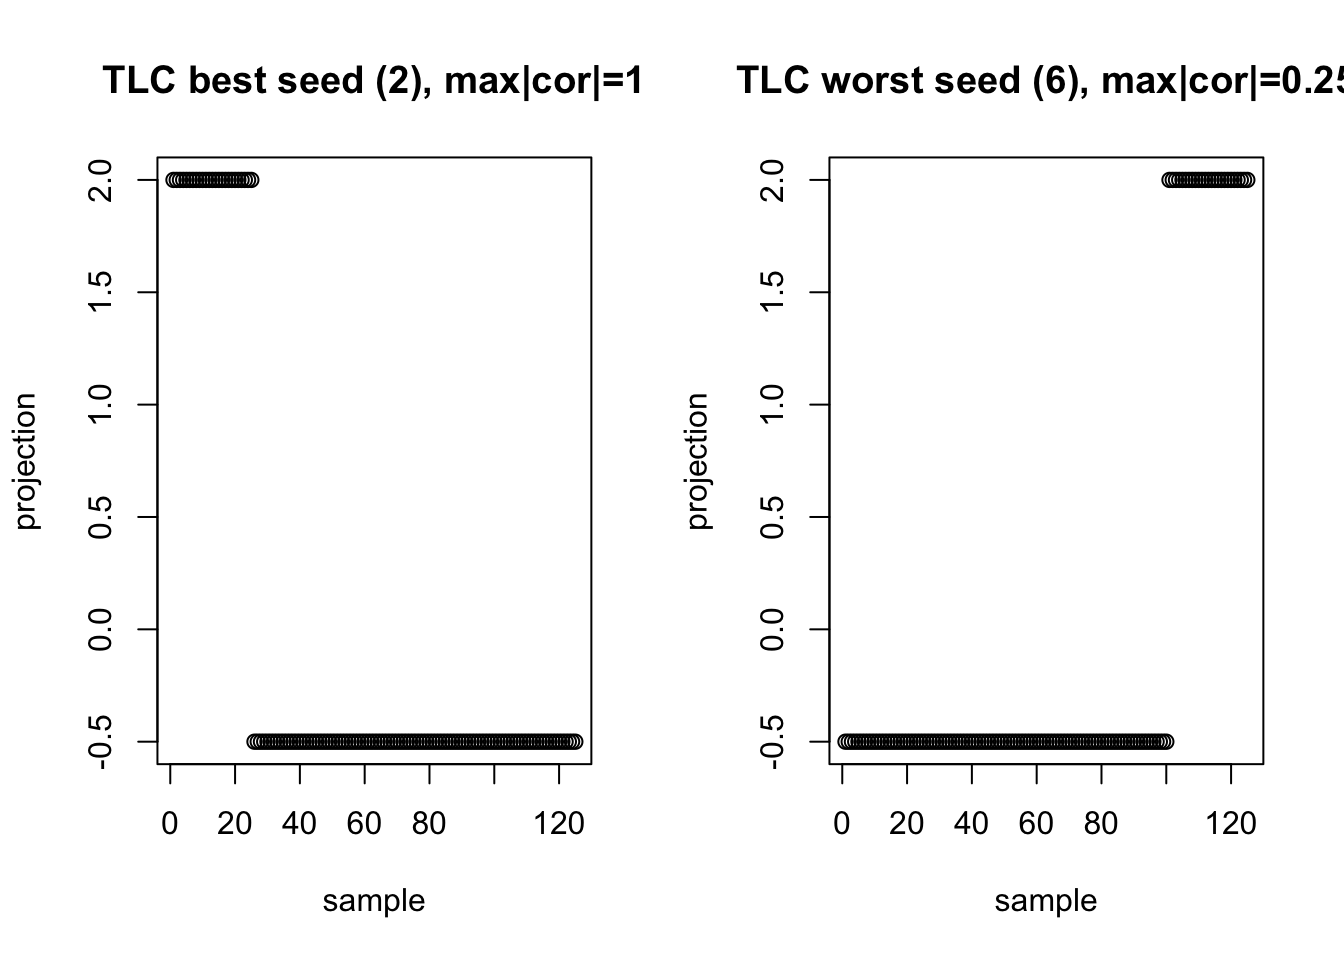
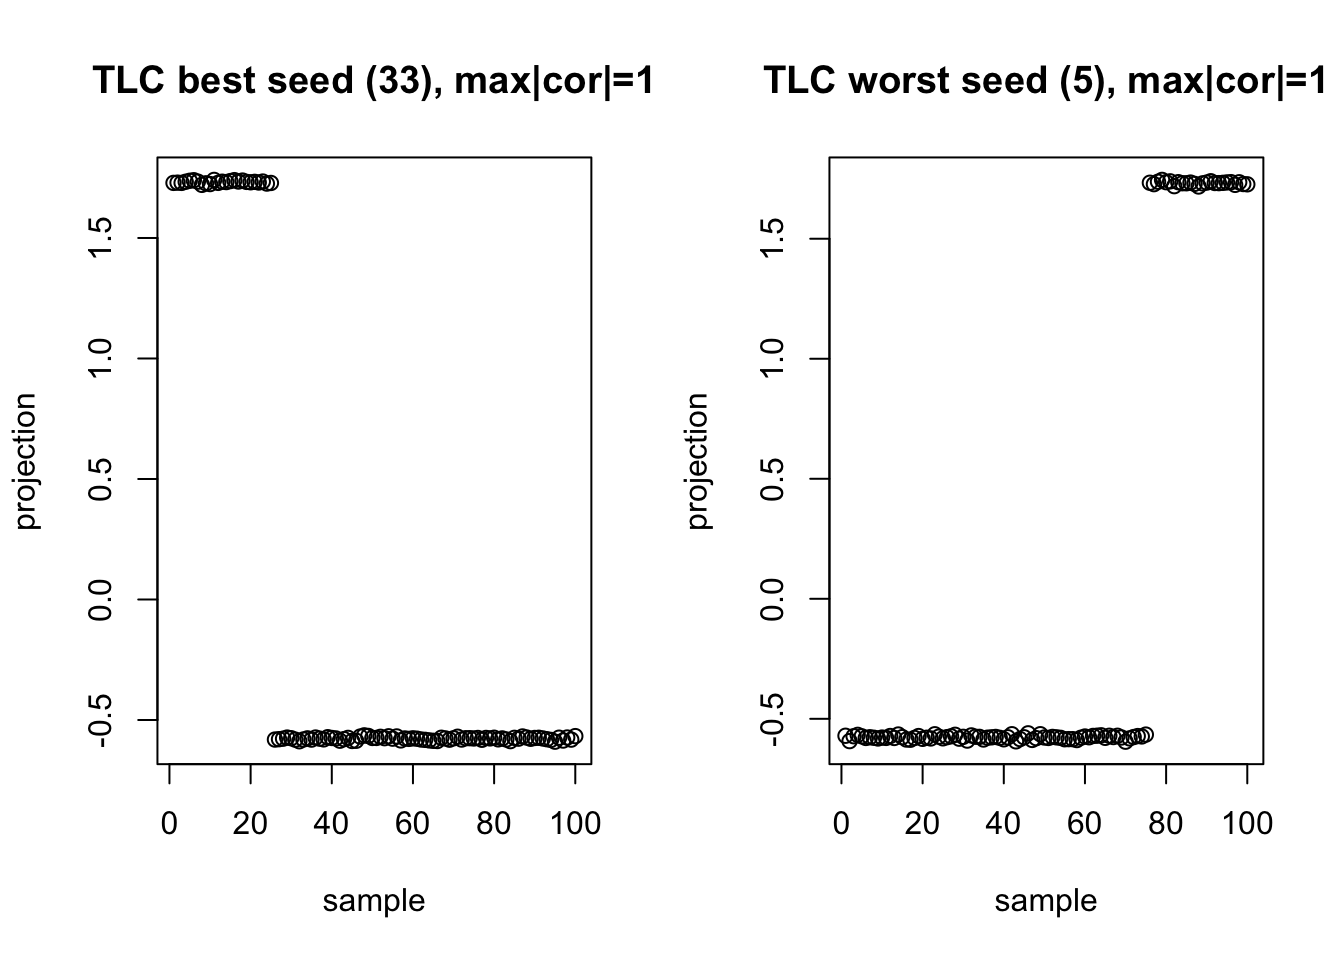
Build site.

diff --git a/docs/fastica_skew.html b/docs/fastica_skew.html
@@ -465,16 +465,16 @@ This reproducible <a href="https://rmarkdown.rstudio.com">R Markdown</a> analysi
 <div class="panel panel-default">
 <div class="panel-heading">
 <p class="panel-title">
-<a data-toggle="collapse" data-parent="#workflowr-checks" href="#strongRepositoryversionstrongahrefhttpsgithubcomstephens999misctree159d4665e5764959a1c9929fcce3673a317b8a0etargetblank159d466a"> <span class="glyphicon glyphicon-ok text-success" aria-hidden="true"></span> <strong>Repository version:</strong> <a href="https://github.com/stephens999/misc/tree/159d4665e5764959a1c9929fcce3673a317b8a0e" target="_blank">159d466</a> </a>
+<a data-toggle="collapse" data-parent="#workflowr-checks" href="#strongRepositoryversionstrongahrefhttpsgithubcomstephens999misctreecf3bf2ff2014abab89cf9b1d2e5be9bed424c6f5targetblankcf3bf2fa"> <span class="glyphicon glyphicon-ok text-success" aria-hidden="true"></span> <strong>Repository version:</strong> <a href="https://github.com/stephens999/misc/tree/cf3bf2ff2014abab89cf9b1d2e5be9bed424c6f5" target="_blank">cf3bf2f</a> </a>
 </p>
 </div>
[2 lines of base64/hex data omitted]
 <div class="panel-body">
 <p>
 Great! You are using Git for version control. Tracking code development and connecting the code version to the results is critical for reproducibility.
 </p>
 <p>
-The results in this page were generated with repository version <a href="https://github.com/stephens999/misc/tree/159d4665e5764959a1c9929fcce3673a317b8a0e" target="_blank">159d466</a>. See the <em>Past versions</em> tab to see a history of the changes made to the R Markdown and HTML files.
+The results in this page were generated with repository version <a href="https://github.com/stephens999/misc/tree/cf3bf2ff2014abab89cf9b1d2e5be9bed424c6f5" target="_blank">cf3bf2f</a>. See the <em>Past versions</em> tab to see a history of the changes made to the R Markdown and HTML files.
 </p>
 <p>
 Note that you need to be careful to ensure that all relevant files for the analysis have been committed to Git prior to generating the results (you can use <code>wflow_publish</code> or <code>wflow_git_commit</code>). workflowr only checks the R Markdown file, but you know if there are other scripts or data files that it depends on. Below is the status of the Git repository when the results were generated:
@@ -489,6 +489,7 @@ Ignored files:
     Ignored:    analysis/.RData
     Ignored:    analysis/.Rhistory
     Ignored:    analysis/ALStruct_cache/
+    Ignored:    analysis/figure/
     Ignored:    data/.Rhistory
     Ignored:    data/methylation-data-for-matthew.rds
     Ignored:    data/pbmc/
@@ -722,6 +723,40 @@ Message
 Rmd
 </td>
 <td>
+<a href="https://github.com/stephens999/misc/blob/cf3bf2ff2014abab89cf9b1d2e5be9bed424c6f5/analysis/fastica_skew.Rmd" target="_blank">cf3bf2f</a>
+</td>
+<td>
+Matthew Stephens
+</td>
+<td>
[phone redacted]
+</td>
+<td>
+Add noise to tests, 9-component plots
+</td>
+</tr>
+<tr>
+<td>
+html
+</td>
+<td>
+<a href="https://rawcdn.githack.com/stephens999/misc/7da05b81b33e093f4a287866c652908d726bd6e6/docs/fastica_skew.html" target="_blank">7da05b8</a>
+</td>
+<td>
+Matthew Stephens
+</td>
+<td>
[phone redacted]
+</td>
+<td>
+Build site.
+</td>
+</tr>
+<tr>
+<td>
+Rmd
+</td>
+<td>
 <a href="https://github.com/stephens999/misc/blob/159d4665e5764959a1c9929fcce3673a317b8a0e/analysis/fastica_skew.Rmd" target="_blank">159d466</a>
 </td>
 <td>
@@ -827,6 +862,43 @@ abline(h = gaussian_baseline, lty = 2, col = &quot;gray&quot;)
 legend(&quot;bottomleft&quot;, c(&quot;log-cosh&quot;, &quot;tilted log-cosh (λ=1)&quot;, &quot;Gaussian baseline&quot;),
        col = c(&quot;blue&quot;,&quot;red&quot;,&quot;gray&quot;), lty = c(1,1,2))</code></pre>
 <p><img src="figure/fastica_skew.Rmd/unnamed-chunk-2-1.png" alt="" width="672" style="display: block; margin: auto;" /></p>
+<p>
+<button type="button" class="btn btn-default btn-xs btn-workflowr btn-workflowr-fig" data-toggle="collapse" data-target="#fig-unnamed-chunk-2-1">
+Past versions of unnamed-chunk-2-1.png
+</button>
+</p>
+<div id="fig-unnamed-chunk-2-1" class="collapse">
+<div class="table-responsive">
+<table class="table table-condensed table-hover">
+<thead>
+<tr>
+<th>
+Version
+</th>
+<th>
+Author
+</th>
+<th>
+Date
+</th>
+</tr>
+</thead>
+<tbody>
+<tr>
+<td>
+<a href="https://github.com/stephens999/misc/blob/7da05b81b33e093f4a287866c652908d726bd6e6/docs/figure/fastica_skew.Rmd/unnamed-chunk-2-1.png" target="_blank">7da05b8</a>
+</td>
+<td>
+Matthew Stephens
+</td>
+<td>
[phone redacted]
+</td>
+</tr>
+</tbody>
+</table>
+</div>
+</div>
 <p>Standard log-cosh falls below the Gaussian baseline for skewed sources. The tilted version increases monotonically toward the sparse extreme.</p>
 </div>
 <div id="test-1-symmetric-binary-source-k1-p0.5" class="section level2">
@@ -838,7 +910,8 @@ p = 1000
 k = 1
 A = matrix(rnorm(p * k), nrow = p)
 S_rad = matrix(sample(c(-1, 1), n, replace = TRUE), nrow = 1)
-X_rad = A %*% S_rad
+sigma = 0.1
+X_rad = A %*% S_rad + matrix(rnorm(p * n, 0, sigma), nrow = p)
 Z_rad = sqrt(n) * t(svd(X_rad)$v[, 1:k, drop = FALSE])
 
 res_lc_rad  = run_seeds(Z_rad, S_rad, fastica_r1update,     compute_objective,     n_seeds = 50)
@@ -851,20 +924,21 @@ cat(&quot;log-cosh  : mean max|cor| =&quot;, round(mean(res_lc_rad$maxcor),  3),
     &quot; fraction &gt; 0.9:&quot;, mean(res_tlc_rad$maxcor &gt; 0.9), &quot;\n&quot;)</code></pre>
 <pre><code>tilted lc : mean max|cor| = 1  fraction &gt; 0.9: 1 </code></pre>
 </div>
-<div id="test-2-non-overlapping-groups-k4-p0.2-per-source" class="section level2">
-<h2>Test 2: Non-overlapping groups (k=4, p=0.2 per source)</h2>
-<p>Here we have 4 non-overlapping groups of 25 samples each in n=125, so each source is active for 20% of samples (p=0.2). We use n=125 rather than n=100 so that the 4 groups do not perfectly partition all samples — if every sample belongs to exactly one group, the centered data has rank k-1 rather than k, making the k-th whitened component the constant direction (which TLC is attracted to). With background samples this rank deficiency does not arise.</p>
+<div id="test-2-non-overlapping-groups-k4-p0.25-per-source" class="section level2">
+<h2>Test 2: Non-overlapping groups (k=4, p=0.25 per source)</h2>
+<p>Here we have 4 non-overlapping groups of 25 samples each in n=100, so each source is active for 25% of samples (p=0.25). Without noise the 4 groups would perfectly partition all samples, making the centered data rank k-1 and the k-th whitened component the constant direction. The added noise breaks this exact rank deficiency.</p>
 <pre class="r"><code>set.seed(1)
-n = 125
+n = 100
 p = 1000
 k = 4
 A = matrix(rnorm(p * k), nrow = p)
 S = matrix(0, nrow = k, ncol = n)
-S[1, 1:25]    = 1
-S[2, 26:50]   = 1
-S[3, 51:75]   = 1
-S[4, 76:100]  = 1
-X  = A %*% S
+S[1, 1:25]   = 1
+S[2, 26:50]  = 1
+S[3, 51:75]  = 1
+S[4, 76:100] = 1
+sigma = 0.1
+X  = A %*% S + matrix(rnorm(p * n, 0, sigma), nrow = p)
 Z  = prewhiten(X, k)
 
 res_lc  = run_seeds(Z, S, fastica_r1update,     compute_objective)
@@ -874,6 +948,43 @@ par(mfrow = c(1, 2))
 hist(res_lc$maxcor,  breaks = seq(0, 1, by = 0.05), main = &quot;log-cosh: max |cor| with true S&quot;,  xlab = &quot;&quot;)
 hist(res_tlc$maxcor, breaks = seq(0, 1, by = 0.05), main = &quot;tilted log-cosh: max |cor| with true S&quot;, xlab = &quot;&quot;)</code></pre>
 <p><img src="figure/fastica_skew.Rmd/unnamed-chunk-4-1.png" alt="" width="672" style="display: block; margin: auto;" /></p>
+<p>
+<button type="button" class="btn btn-default btn-xs btn-workflowr btn-workflowr-fig" data-toggle="collapse" data-target="#fig-unnamed-chunk-4-1">
+Past versions of unnamed-chunk-4-1.png
+</button>
+</p>
+<div id="fig-unnamed-chunk-4-1" class="collapse">
+<div class="table-responsive">
+<table class="table table-condensed table-hover">
+<thead>
+<tr>
+<th>
+Version
+</th>
+<th>
+Author
+</th>
+<th>
+Date
+</th>
+</tr>
+</thead>
+<tbody>
+<tr>
+<td>
+<a href="https://github.com/stephens999/misc/blob/7da05b81b33e093f4a287866c652908d726bd6e6/docs/figure/fastica_skew.Rmd/unnamed-chunk-4-1.png" target="_blank">7da05b8</a>
+</td>
+<td>
+Matthew Stephens
+</td>
+<td>
[phone redacted]
+</td>
+</tr>
+</tbody>
+</table>
+</div>
+</div>
 <pre class="r"><code>par(mfrow = c(1, 1))</code></pre>
 <p>Best and worst seeds for tilted log-cosh on Test 2:</p>
 <pre class="r"><code>get_projection = function(X, seed, update_fn, n_iter = 200, ...) {
@@ -896,11 +1007,48 @@ plot(proj_best,  main = paste0(&quot;TLC best seed (&quot;, best_seed, &quot;), 
 plot(proj_worst, main = paste0(&quot;TLC worst seed (&quot;, worst_seed, &quot;), max|cor|=&quot;,
      round(res_tlc$maxcor[worst_seed], 3)), xlab = &quot;sample&quot;, ylab = &quot;projection&quot;)</code></pre>
 <p><img src="figure/fastica_skew.Rmd/unnamed-chunk-5-1.png" alt="" width="672" style="display: block; margin: auto;" /></p>
+<p>
+<button type="button" class="btn btn-default btn-xs btn-workflowr btn-workflowr-fig" data-toggle="collapse" data-target="#fig-unnamed-chunk-5-1">
+Past versions of unnamed-chunk-5-1.png
+</button>
+</p>
+<div id="fig-unnamed-chunk-5-1" class="collapse">
+<div class="table-responsive">
+<table class="table table-condensed table-hover">
+<thead>
+<tr>
+<th>
+Version
+</th>
+<th>
+Author
+</th>
+<th>
+Date
+</th>
+</tr>
+</thead>
+<tbody>
+<tr>
+<td>
+<a href="https://github.com/stephens999/misc/blob/7da05b81b33e093f4a287866c652908d726bd6e6/docs/figure/fastica_skew.Rmd/unnamed-chunk-5-1.png" target="_blank">7da05b8</a>
+</td>
+<td>
+Matthew Stephens
+</td>
+<td>
[phone redacted]
+</td>
+</tr>
+</tbody>
+</table>
+</div>
+</div>
 <pre class="r"><code>par(mfrow = c(1, 1))</code></pre>
 </div>
 <div id="test-3-sparse-binary-sources-p0.2" class="section level2">
 <h2>Test 3: Sparse binary sources (p=0.2)</h2>
-<p>Here the true source takes value 1 with probability 0.2. From the theoretical plot, p=0.2 is near where E[log(cosh(z))] dips furthest below the Gaussian baseline, so this should be a harder case for standard log-cosh than p=0.5.</p>
+<p>Here the true source takes value 1 with probability 0.2. From the theoretical plot, p=0.2 is near where E[log(cosh(z))] is closest to the Gaussian baseline, making it hard for standard log-cosh to distinguish the source from Gaussian noise.</p>
 <pre class="r"><code>set.seed(2)
 n   = 500
 p   = 1000
@@ -912,7 +1060,8 @@ S_sparse = matrix(0, nrow = k, ncol = n)
 for (j in 1:k)
   S_sparse[j, sample(n, round(prob_active * n))] = 1
 
-X_sp = A %*% S_sparse
+sigma = 0.1
+X_sp = A %*% S_sparse + matrix(rnorm(p * n, 0, sigma), nrow = p)
 Z_sp = prewhiten(X_sp, k)
 
 res_lc_sp  = run_seeds(Z_sp, S_sparse, fastica_r1update,     compute_objective,     n_seeds = 100)
@@ -920,7 +1069,7 @@ res_tlc_sp = run_seeds(Z_sp, S_sparse, fastica_r1update_tlc, compute_objective_t
 
 cat(&quot;log-cosh:    mean max|cor| =&quot;, round(mean(res_lc_sp$maxcor),  3),
     &quot; fraction &gt; 0.9:&quot;, mean(res_lc_sp$maxcor  &gt; 0.9), &quot;\n&quot;)</code></pre>
-<pre><code>log-cosh:    mean max|cor| = 0.724  fraction &gt; 0.9: 0.07 </code></pre>
+<pre><code>log-cosh:    mean max|cor| = 0.723  fraction &gt; 0.9: 0.07 </code></pre>
 <pre class="r"><code>cat(&quot;tilted lc:   mean max|cor| =&quot;, round(mean(res_tlc_sp$maxcor), 3),
     &quot; fraction &gt; 0.9:&quot;, mean(res_tlc_sp$maxcor &gt; 0.9), &quot;\n&quot;)</code></pre>
 <pre><code>tilted lc:   mean max|cor| = 1  fraction &gt; 0.9: 1 </code></pre>
@@ -930,6 +1079,43 @@ hist(res_lc_sp$maxcor,  breaks = seq(0, 1, by = 0.05),
 hist(res_tlc_sp$maxcor, breaks = seq(0, 1, by = 0.05),
      main = &quot;tilted log-cosh: sparse binary source&quot;, xlab = &quot;max |cor| with true S&quot;)</code></pre>
 <p><img src="figure/fastica_skew.Rmd/unnamed-chunk-6-1.png" alt="" width="672" style="display: block; margin: auto;" /></p>
+<p>
+<button type="button" class="btn btn-default btn-xs btn-workflowr btn-workflowr-fig" data-toggle="collapse" data-target="#fig-unnamed-chunk-6-1">
+Past versions of unnamed-chunk-6-1.png
+</button>
+</p>
+<div id="fig-unnamed-chunk-6-1" class="collapse">
+<div class="table-responsive">
+<table class="table table-condensed table-hover">
+<thead>
+<tr>
+<th>
+Version
+</th>
+<th>
+Author
+</th>
+<th>
+Date
+</th>
+</tr>
+</thead>
+<tbody>
+<tr>
+<td>
+<a href="https://github.com/stephens999/misc/blob/7da05b81b33e093f4a287866c652908d726bd6e6/docs/figure/fastica_skew.Rmd/unnamed-chunk-6-1.png" target="_blank">7da05b8</a>
+</td>
+<td>
+Matthew Stephens
+</td>
+<td>
[phone redacted]
+</td>
+</tr>
+</tbody>
+</table>
+</div>
+</div>
 <pre class="r"><code>par(mfrow = c(1, 1))</code></pre>
 </div>
 <div id="multi-component-extraction-via-deflation" class="section level2">
@@ -972,11 +1158,11 @@ cor_tlc = cor(t(S_sparse), t(Z_sp) %*% W_tlc)
 cat(&quot;log-cosh deflation — max |cor| per true source:\n&quot;)</code></pre>
 <pre><code>log-cosh deflation &lt;U+2014&gt; max |cor| per true source:</code></pre>
 <pre class="r"><code>print(round(apply(abs(cor_lc),  1, max), 3))</code></pre>
-<pre><code>[1] 0.712 1.000 0.710 0.992</code></pre>
+<pre><code>[1] 0.951 0.720 0.998 0.699</code></pre>
 <pre class="r"><code>cat(&quot;tilted log-cosh deflation — max |cor| per true source:\n&quot;)</code></pre>
 <pre><code>tilted log-cosh deflation &lt;U+2014&gt; max |cor| per true source:</code></pre>
 <pre class="r"><code>print(round(apply(abs(cor_tlc), 1, max), 3))</code></pre>
-<pre><code>[1] 0.997 0.998 1.000 1.000</code></pre>
+<pre><code>[1] 1.000 1.000 1.000 0.995</code></pre>
 </div>
 <div id="test-4-9-overlapping-groups-20-members-each-n100" class="section level2">
 <h2>Test 4: 9 overlapping groups, 20 members each, n=100</h2>
@@ -988,7 +1174,8 @@ K = 9
 L = matrix(0, nrow = n, ncol = K)
 for (i in 1:K) L[sample(n, 20), i] = 1
 FF = matrix(rnorm(p * K), nrow = p, ncol = K)
-X9 = t(L %*% t(FF) + rnorm(n * p, 0, 0.01))  # p x n
+sigma = 0.1
+X9 = t(L %*% t(FF) + matrix(rnorm(n * p, 0, sigma), nrow = n))  # p x n
 Z9 = prewhiten(X9, K)
 
 W9_lc  = fastica_deflation(Z9, K, fastica_r1update,     compute_objective,     n_starts = 10)
@@ -1000,11 +1187,22 @@ cor9_tlc = cor(L, t(Z9) %*% W9_tlc)
 cat(&quot;log-cosh — max |cor| per true source:\n&quot;)</code></pre>
 <pre><code>log-cosh &lt;U+2014&gt; max |cor| per true source:</code></pre>
 <pre class="r"><code>print(round(apply(abs(cor9_lc),  2, max), 3))</code></pre>
-<pre><code>[1] 0.576 0.619 0.721 0.567 0.531 0.551 0.862 0.897 0.482</code></pre>
+<pre><code>[1] 0.612 0.546 0.711 0.747 0.584 0.497 0.609 0.609 0.614</code></pre>
 <pre class="r"><code>cat(&quot;tilted log-cosh — max |cor| per true source:\n&quot;)</code></pre>
 <pre><code>tilted log-cosh &lt;U+2014&gt; max |cor| per true source:</code></pre>
 <pre class="r"><code>print(round(apply(abs(cor9_tlc), 2, max), 3))</code></pre>
-<pre><code>[1] 1.000 1.000 1.000 0.996 0.996 0.992 0.972 0.966 0.954</code></pre>
+<pre><code>[1] 1.000 1.000 0.998 0.998 0.996 0.975 0.990 0.968 0.954</code></pre>
+<p>Extracted sources (rows = components, columns = samples):</p>
+<pre class="r"><code>proj9_lc  = t(Z9) %*% W9_lc
+proj9_tlc = t(Z9) %*% W9_tlc
+
+par(mfrow = c(K, 2), mar = c(1, 2, 1.5, 0.5))
+for (i in 1:K) {
+  plot(proj9_lc[, i],  main = paste0(&quot;log-cosh comp &quot;, i),     ylab = &quot;&quot;, xlab = &quot;&quot;, cex.main = 0.8)
+  plot(proj9_tlc[, i], main = paste0(&quot;tilted lc comp &quot;, i), ylab = &quot;&quot;, xlab = &quot;&quot;, cex.main = 0.8)
+}</code></pre>
+<p><img src="figure/fastica_skew.Rmd/unnamed-chunk-9-1.png" alt="" width="672" style="display: block; margin: auto;" /></p>
+<pre class="r"><code>par(mfrow = c(1, 1))</code></pre>
 </div>
 <div id="summary" class="section level2">
 <h2>Summary</h2>